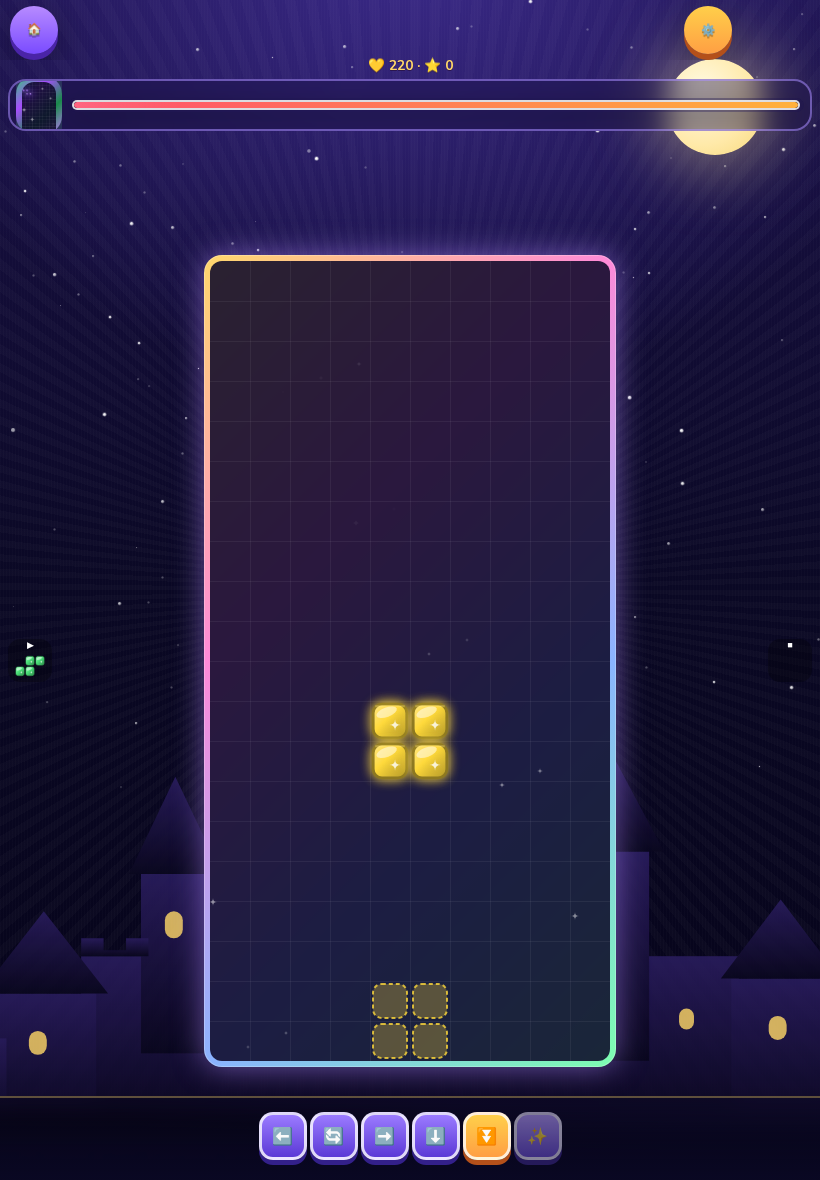
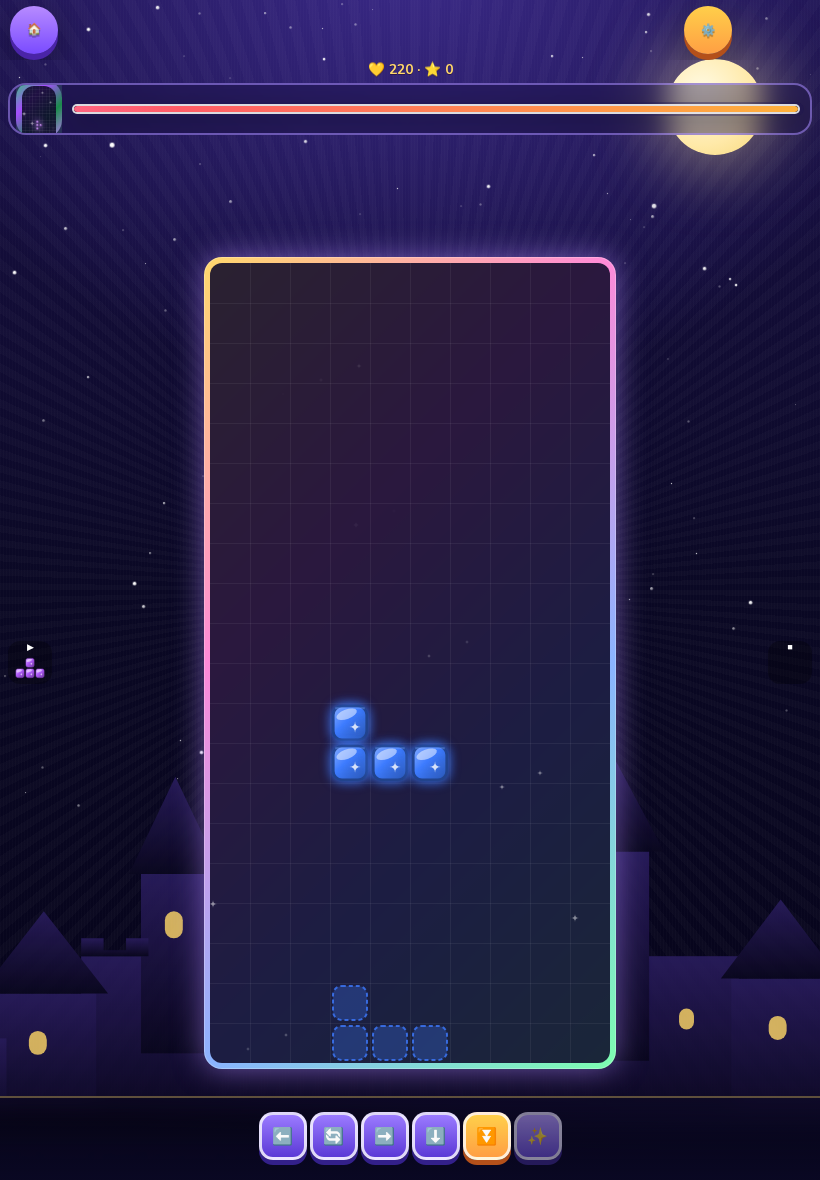
phone-l: HUD bajo topbar; nombres cortos claros
Filas topbar/mhud en landscape móvil para no solapar 🏠/⚙ con el HUD;
shortCharName (Molly, McGonagall, etc.) y aserción de bounding boxes.

diff --git a/theme.css b/theme.css
@@ -1235,12 +1235,35 @@ body[data-layout="phone-l"] .sideWrap.rival .rival-mini {
 }
 
 /* Landscape táctil ancho (iPad…): columnas laterales, sin dock inferior */
-body[data-layout="touch-l"] #gameScreen.show,
-body[data-layout="phone-l"] #gameScreen.show {
+body[data-layout="touch-l"] #gameScreen.show {
   grid-template-rows: auto 1fr;
   grid-template-areas: "topbar" "arena";
   height: 100%;
   max-height: 100%;
+}
+body[data-layout="phone-l"] #gameScreen.show {
+  grid-template-rows: auto auto 1fr;
+  grid-template-areas: "topbar" "mhud" "arena";
+  height: 100%;
+  max-height: 100%;
+}
+body[data-layout="phone-l"] #topBar {
+  display: flex;
+  flex-direction: row;
+  justify-content: space-between;
+  align-items: center;
+  width: 100%;
+  padding: 4px calc(8px + var(--safe-r)) 2px calc(8px + var(--safe-l));
+  grid-area: topbar;
+  gap: 8px;
+}
+body[data-layout="phone-l"] #gameMenuBtn {
+  width: 48px;
+  height: 48px;
+  min-width: 48px;
+  padding: 0;
+  border-radius: 50%;
+  margin-left: auto;
 }
 body[data-layout="touch-l"] #gameScreen #touchDock,
 body[data-layout="touch-l"] #touch,
@@ -1671,9 +1694,7 @@ body[data-layout="phone-l"] .mobile-hud-score:not([hidden]) {
   display: flex;
   justify-content: center;
   align-items: center;
-  grid-area: topbar;
   padding: 0 12px 4px;
-  margin-top: -4px;
   font-size: clamp(0.72rem, 3.2vw, 0.85rem);
   font-weight: 700;
   color: var(--gold);
@@ -1684,7 +1705,11 @@ body[data-layout="phone-p"] #gameScreen.show {
   grid-template-rows: auto auto 1fr auto;
   grid-template-areas: "topbar" "mhud" "arena" "dock";
 }
-body[data-layout="phone-p"] .mobile-hud-score:not([hidden]) { grid-area: mhud; }
+body[data-layout="phone-p"] .mobile-hud-score:not([hidden]),
+body[data-layout="phone-l"] .mobile-hud-score:not([hidden]) {
+  grid-area: mhud;
+  margin-top: 0;
+}
 .mobile-game-menu {
   position: fixed;
   top: calc(52px + var(--safe-t));

diff --git a/index.html b/index.html
@@ -580,10 +580,21 @@ function centerOf(el){const r=el.getBoundingClientRect();return [r.left+r.width/
 
 /* ================= PANTALLA DE SELECCIÓN ================= */
 const sel={hero:null,villain:null,theme:'arcoiris'};
+function shortCharName(ch){
+ if(ch.id==='molly')return 'Molly';
+ if(ch.id==='arthur')return 'Arthur';
+ if(ch.id==='mcgonagall'||ch.id==='quirrell')return ch.n.replace(/^Prof\.\s*/,'');
+ if(ch.id==='voldemort')return 'Voldemort';
+ if(ch.id==='snape')return 'Snape';
+ const rest=ch.n.replace(/^(Prof\.|Sr\.|Sra\.|Lord)\s+/,'').trim();
+ const p=rest.split(/\s+/).filter(Boolean);
+ if(p.length<=1)return p[0]||ch.n;
+ return p[0];
+}
 function makeCards(list,boxId,key){const box=document.getElementById(boxId);
  for(let lv=1;lv<=5;lv++){const row=document.createElement('div');row.className='lvRow lv'+lv;row.innerHTML=`<div class="lvLbl">Nivel<b>${lv}</b></div><div class="lvCards"></div>`;box.appendChild(row);}
  list.slice().sort((a,b)=>a.lv-b.lv).forEach(ch=>{const b=document.createElement('button');b.className='card';b.dataset.id=ch.id;b.dataset.lv=ch.lv;b.title=ch.n+' — '+ch.d+' (Nivel '+ch.lv+')';
-  const nmShort=ch.n.includes(' ')?ch.n.split(' ')[0]:ch.n;
+  const nmShort=shortCharName(ch);
   b.innerHTML=`<span class="lvBadge">Nv ${ch.lv}</span>`+AV[ch.id]()+`<div class="nm" title="${ch.n}">${nmShort}</div><div class="stars">${STARS(ch.lv)}</div><div class="ds">${ch.d}</div>`;
   b.onclick=()=>{sel[key]=ch.id;box.querySelectorAll('.card').forEach(c=>c.classList.toggle('sel',c===b));SFX.select();
    const [x,y]=centerOf(b);burst(x,y,24,key==='hero'?['#ffd86b','#fff','#ff9f43']:['#7dffb0','#c9b6ff','#fff']);updateSel();
